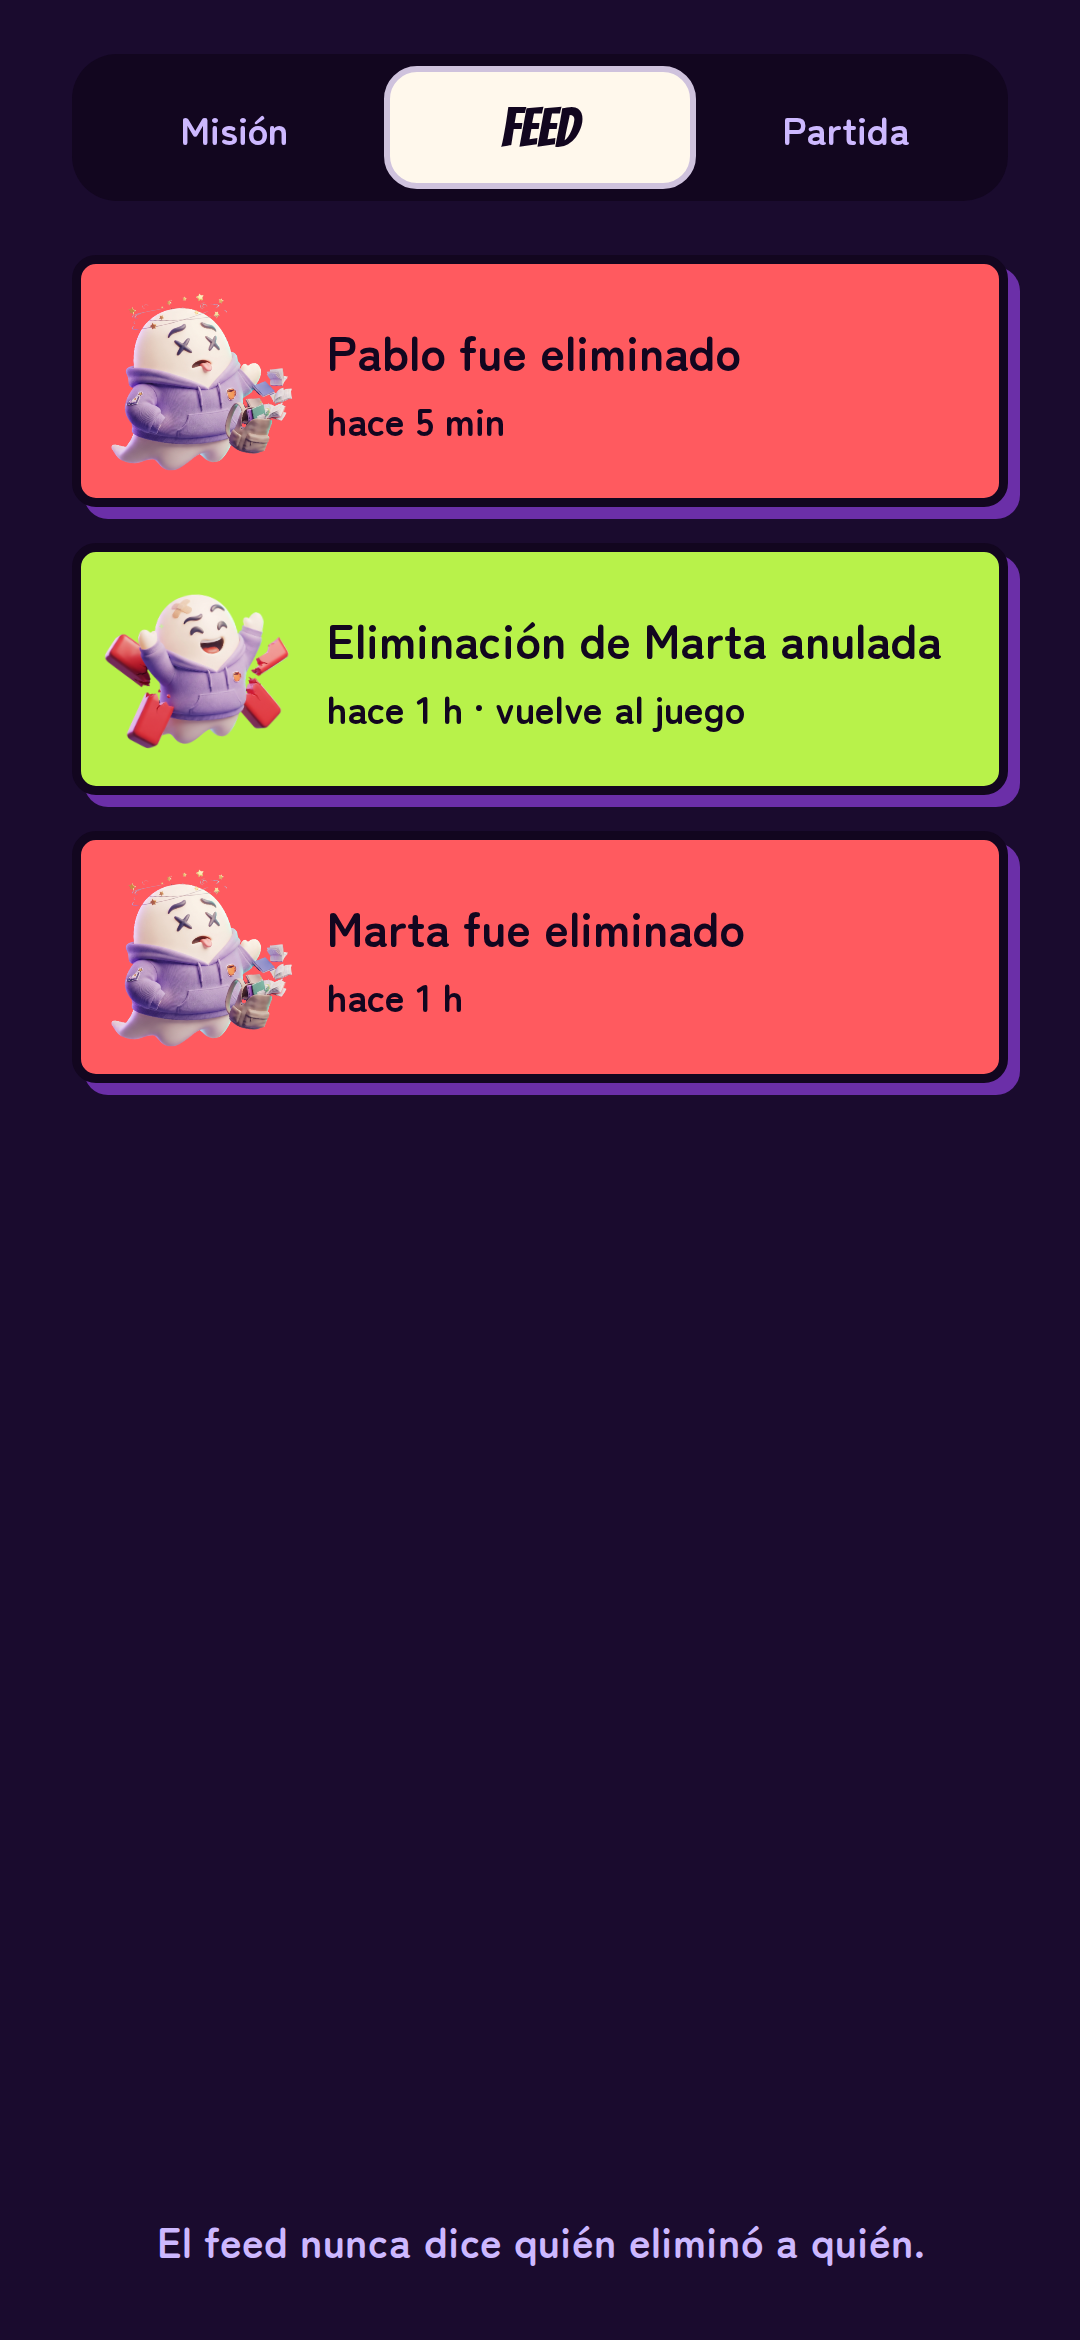
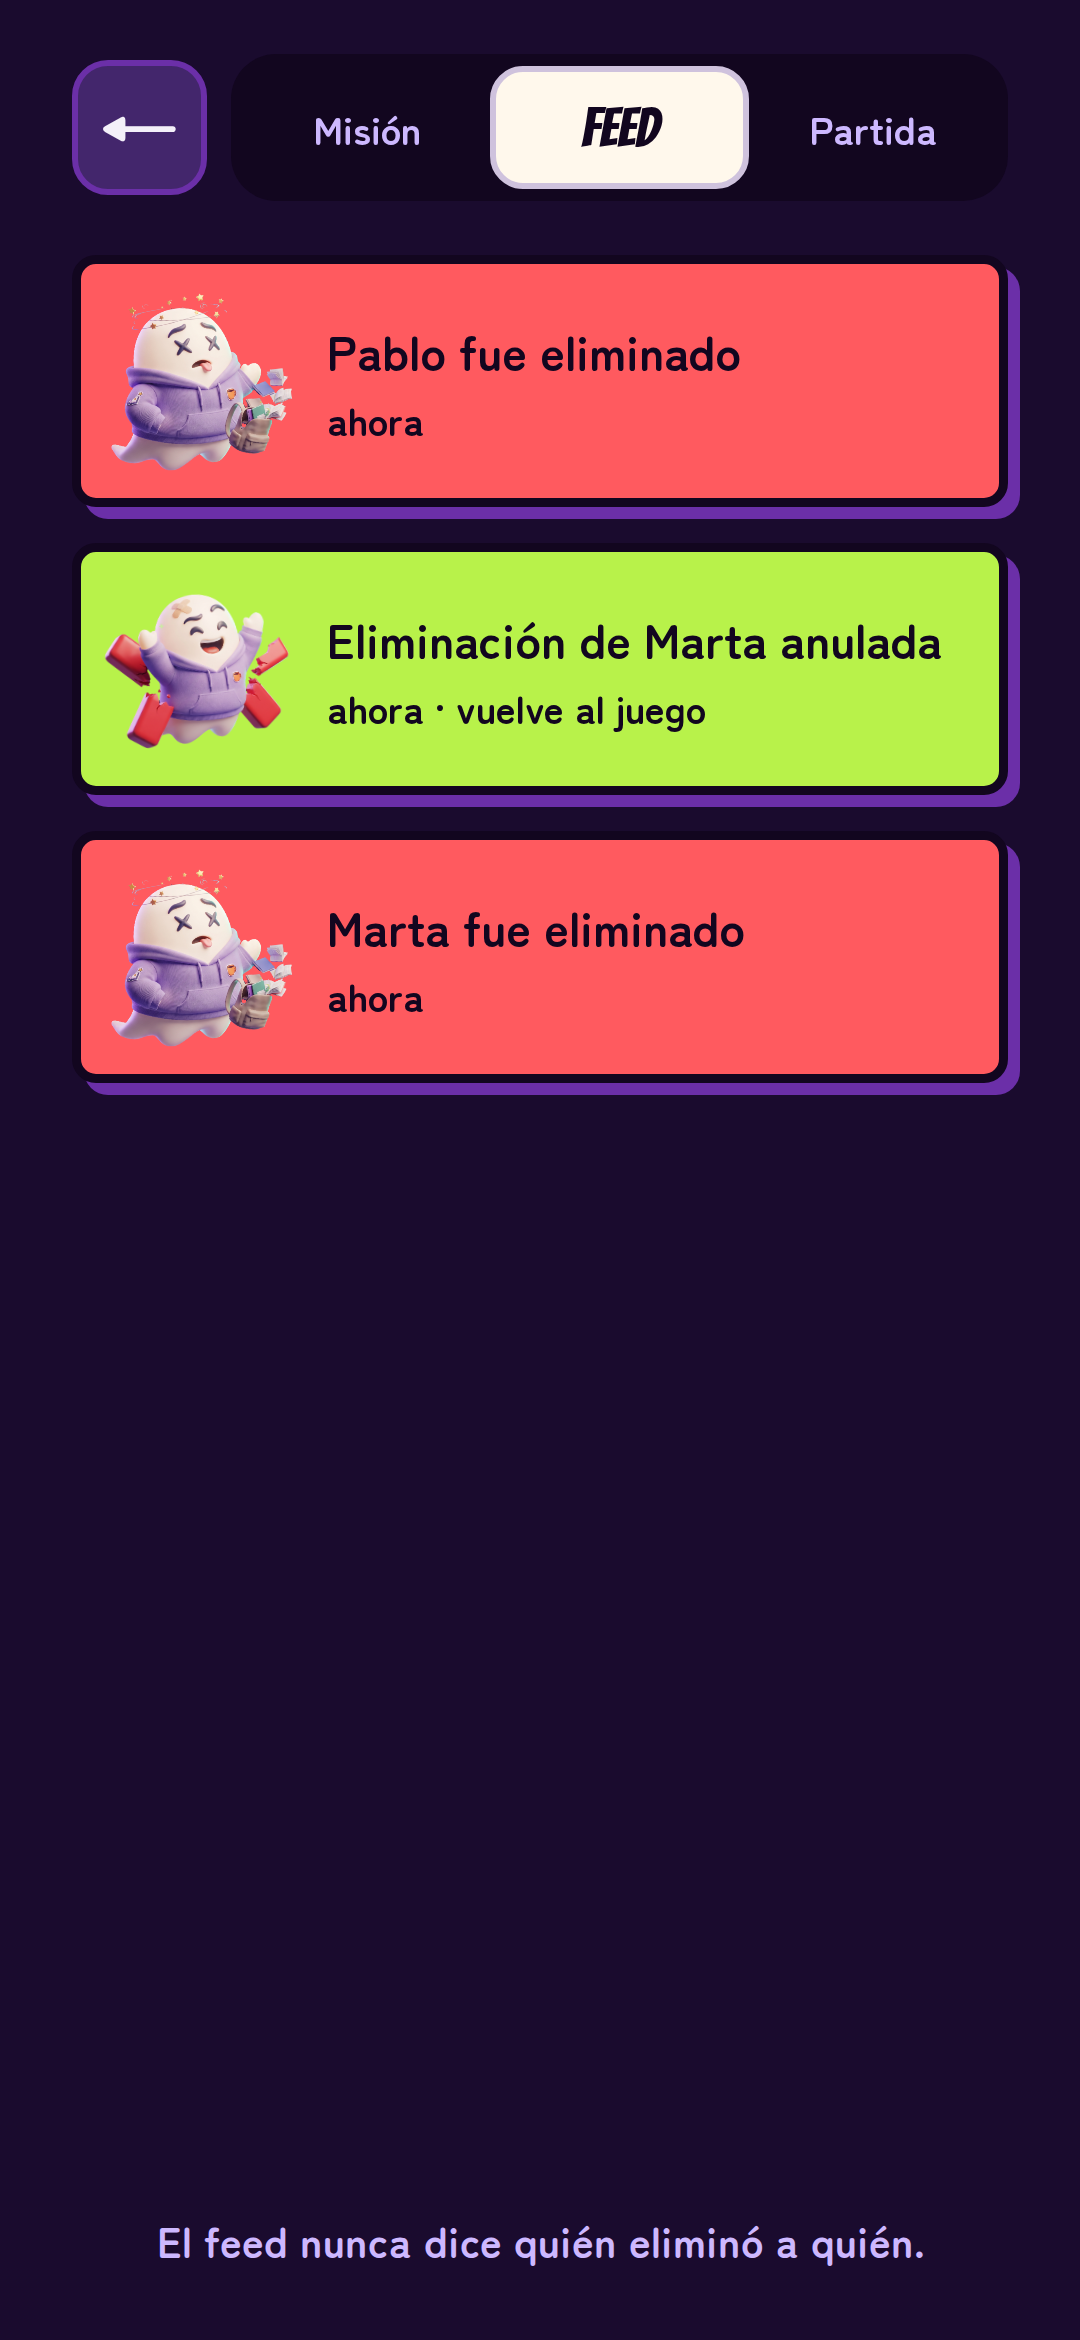
Tarea #300: casos del cazador ya eliminado y de las disputas cerradas por la anulación

diff --git a/docs/manual-usuario/README.md b/docs/manual-usuario/README.md
@@ -398,7 +398,7 @@ Cuando la víctima gana una disputa por su eliminación, porque el árbitro puls
 
 ### 12.1 Qué se anula
 
-Se anula la eliminación disputada y también las que el mismo cazador hizo después, porque esos objetivos le llegaron heredados de la víctima. Por ejemplo, Imad elimina a Marta, hereda a Pablo y lo elimina también; si Marta gana la disputa, se anulan las dos y vuelven Marta y Pablo. Las eliminaciones de otros cazadores no cambian.
+Se anula la eliminación disputada y también las que el mismo cazador hizo después, porque esos objetivos le llegaron heredados de la víctima. Por ejemplo, Imad elimina a Marta, hereda a Pablo y lo elimina también; si Marta gana la disputa, se anulan las dos y vuelven Marta y Pablo. Las eliminaciones de otros cazadores no cambian. Si al cazador ya lo había eliminado otro jugador, sigue eliminado: solo vuelven sus víctimas.
 
 ### 12.2 Qué cambia en la partida
 
@@ -407,6 +407,7 @@ Se anula la eliminación disputada y también las que el mismo cazador hizo desp
 - **Misiones nuevas** para el cazador y para cada jugador que vuelve. Los demás conservan la suya.
 - **Objetivos nuevos:** se reparten otra vez los objetivos entre todos los vivos, procurando que el cazador no tenga como objetivo a nadie que acaba de volver ni al revés. Con dos o tres vivos a veces no se puede evitar, y con solo dos la cadena es la misma.
 - **Intentos completos:** todos los vivos vuelven a tener 3 intentos, porque su objetivo puede haber cambiado.
+- **Disputas que se cierran solas:** si alguno de los que vuelven había abierto una disputa por su eliminación, esa disputa se cierra, porque la eliminación ya está anulada. Dentro de la disputa, que se abre con «Ver disputas» en la pestaña Partida (apartado 11.3), sale «Disputa cerrada: eliminación anulada».
 
 Mira tu carta después de una anulación: puede que tengas otro objetivo y otra misión.
 
